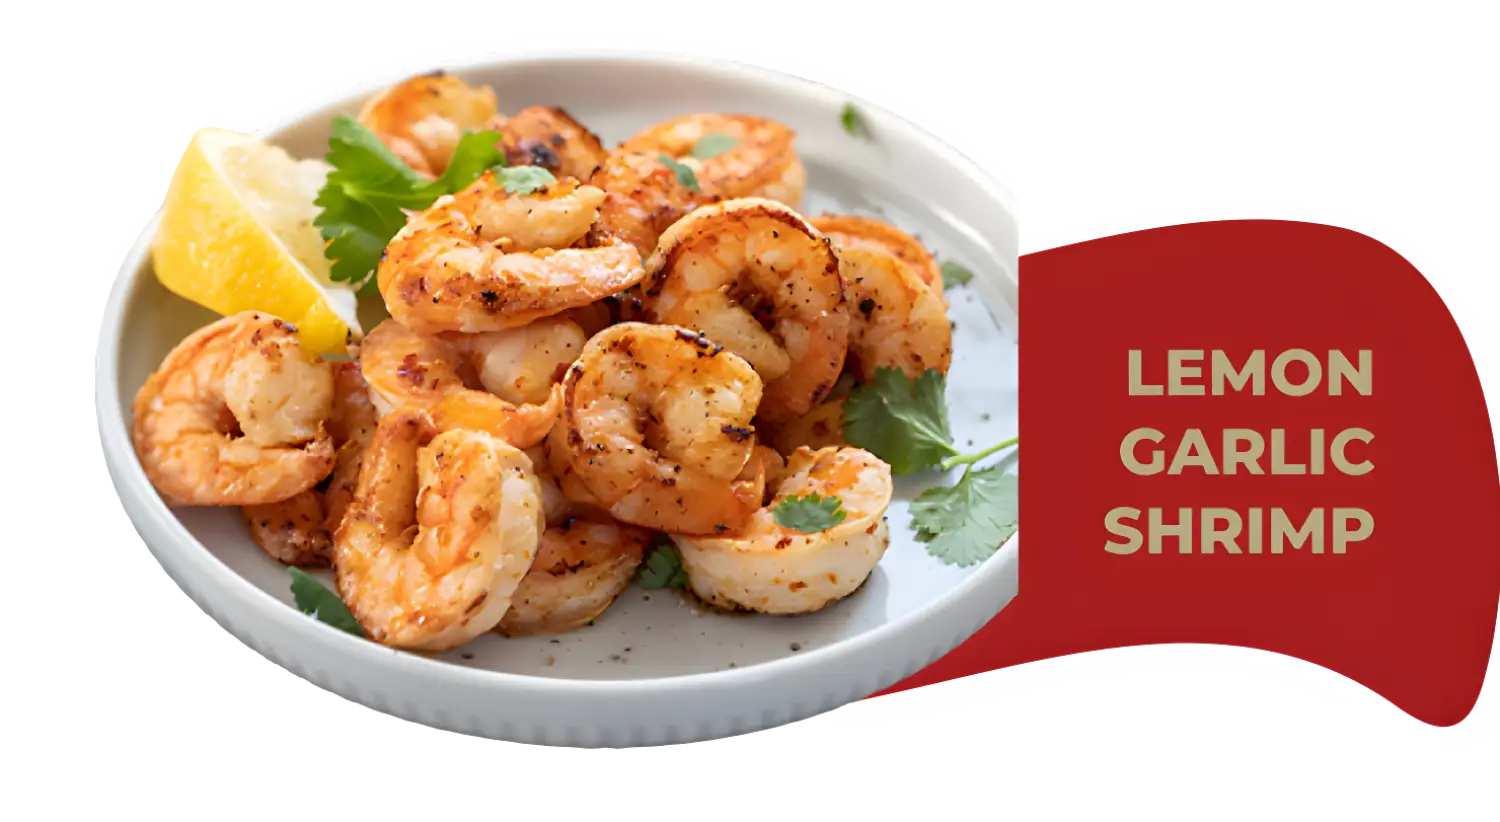
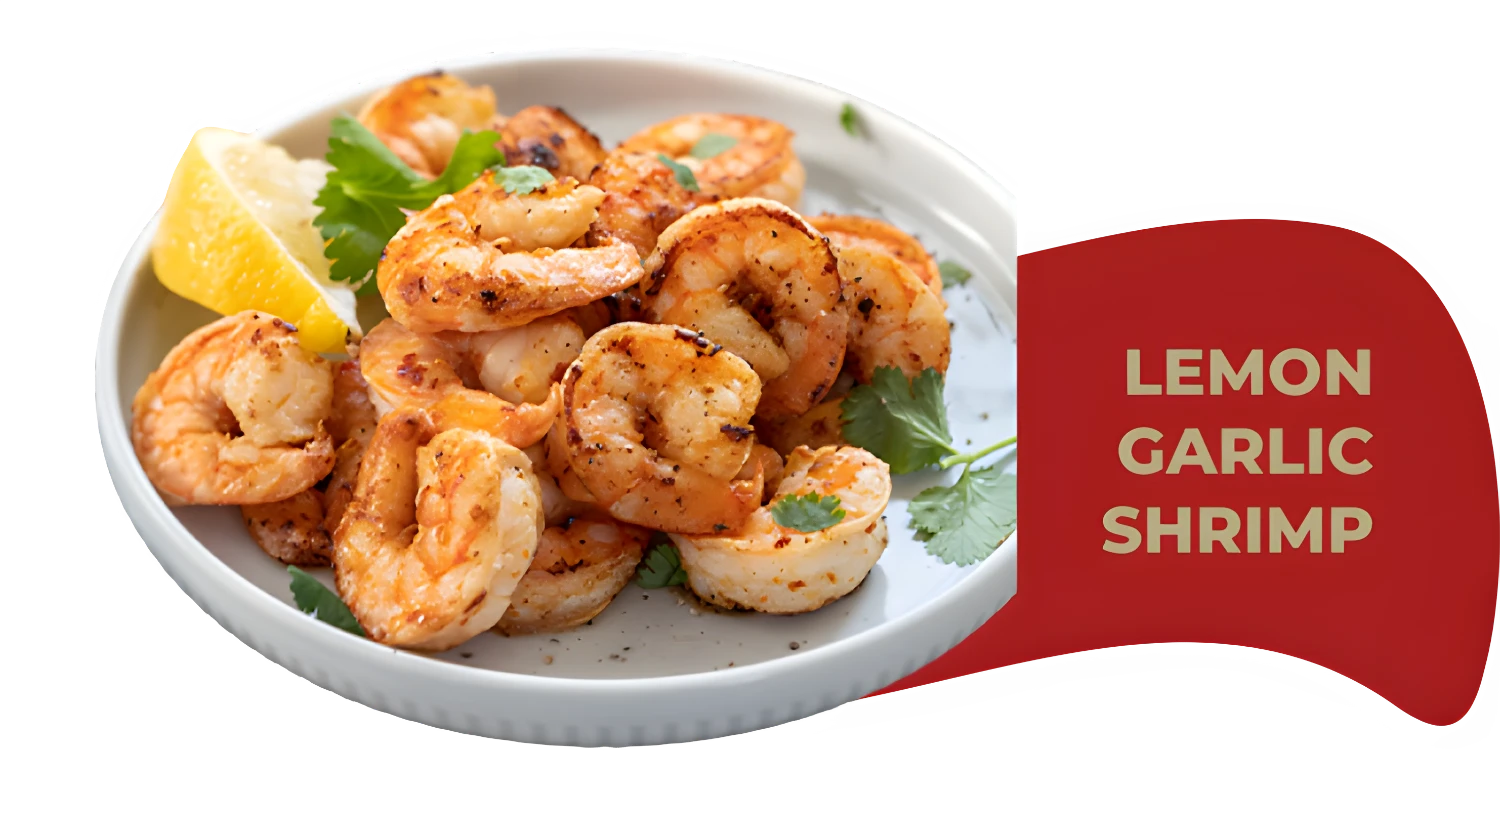
Improvements: Changed images with hd format

diff --git a/src/components/home/FeaturedReciepies.tsx b/src/components/home/FeaturedReciepies.tsx
@@ -1,7 +1,7 @@
-import React from 'react';
-import FeaturedReciepiesCaurasel from './FeaturedReciepiesCaurasel';
-import img from '../../images/Group2.png';
-import AnimateY from '../animation/AnimateY';
+import React from "react";
+import FeaturedReciepiesCaurasel from "./FeaturedReciepiesCaurasel";
+import img from "../../images/Group2.webp";
+import AnimateY from "../animation/AnimateY";
 
 const data = [
   {

diff --git a/src/components/home/OurProducts.tsx b/src/components/home/OurProducts.tsx
@@ -1,6 +1,6 @@
 import { Link } from "gatsby";
 import React from "react";
-import garlicPowderImage from "../../images/imgs/home/garlic-powder-slider.png";
+import garlicPowderImage from "../../images/imgs/home/garlic-powder-slider.webp";
 import AnimateY from "../animation/AnimateY";
 import ProductsCaurasel from "./ProductsCaurasel";
 
